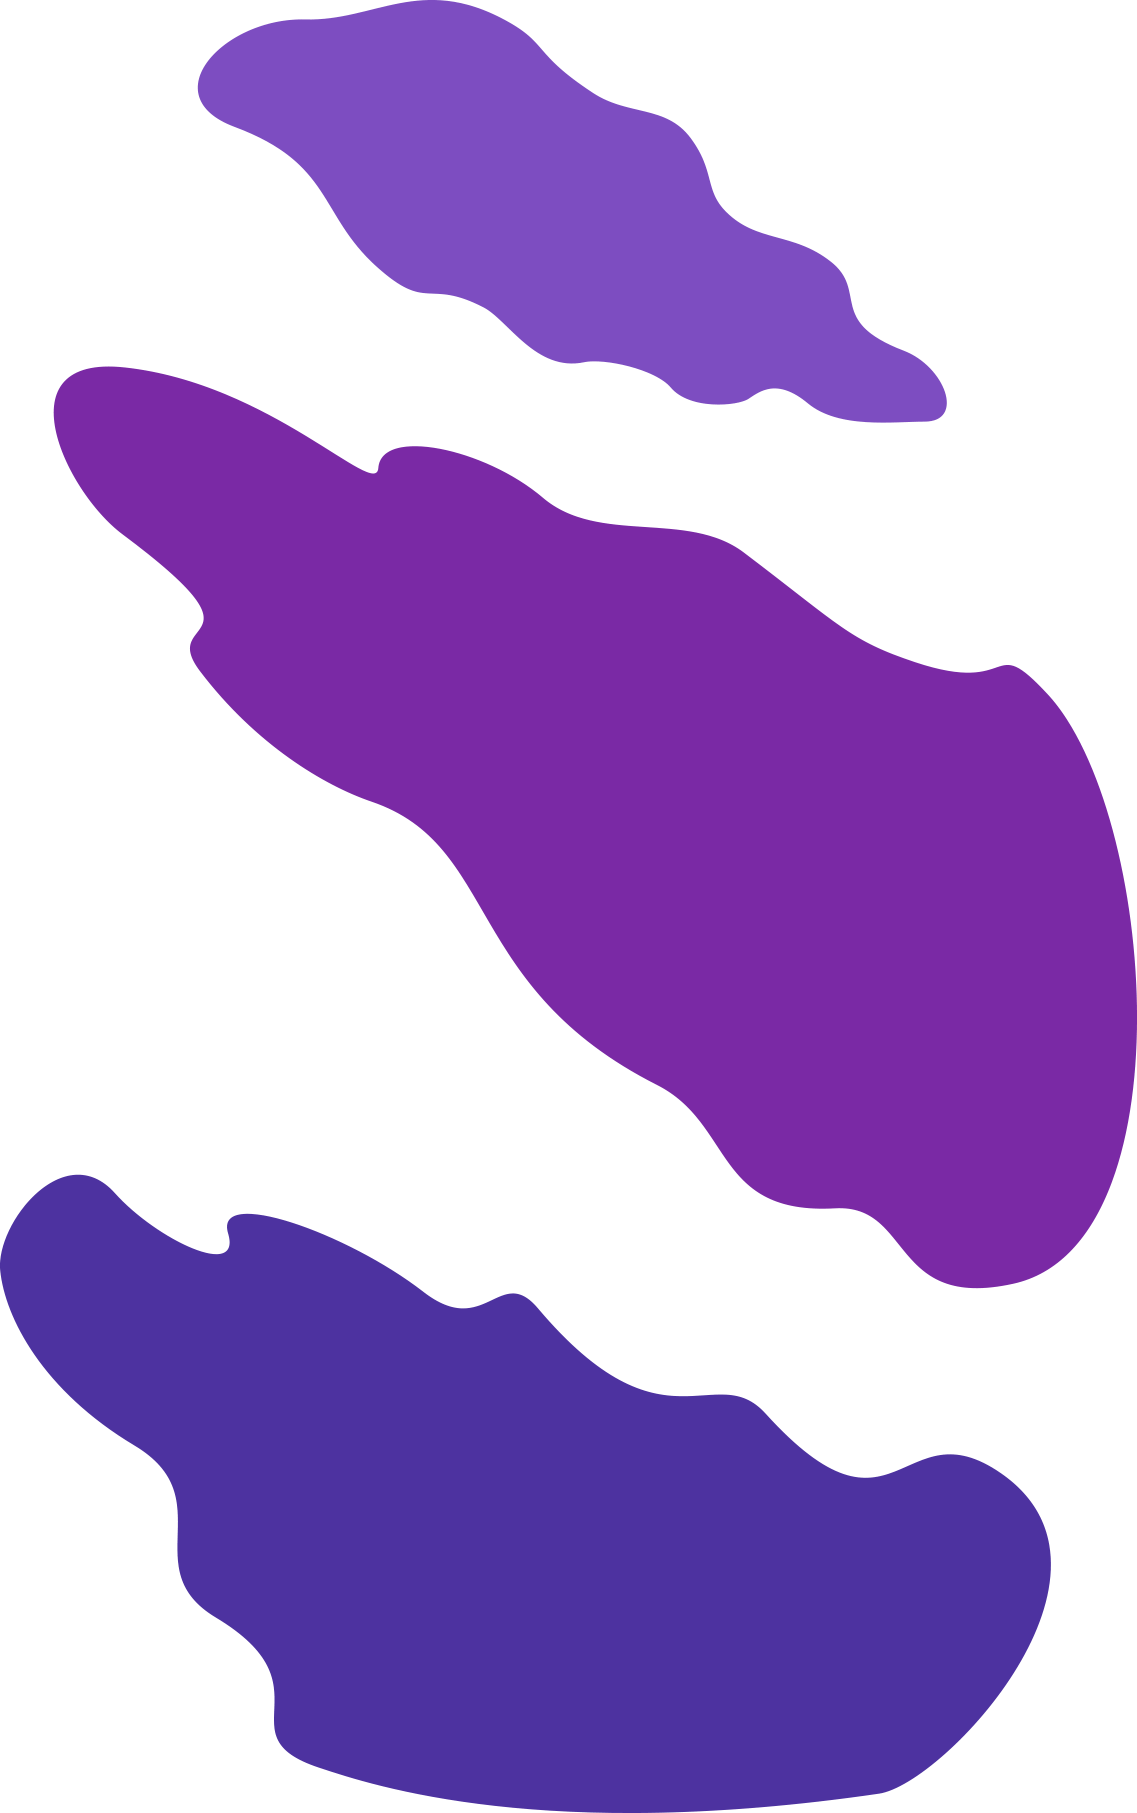
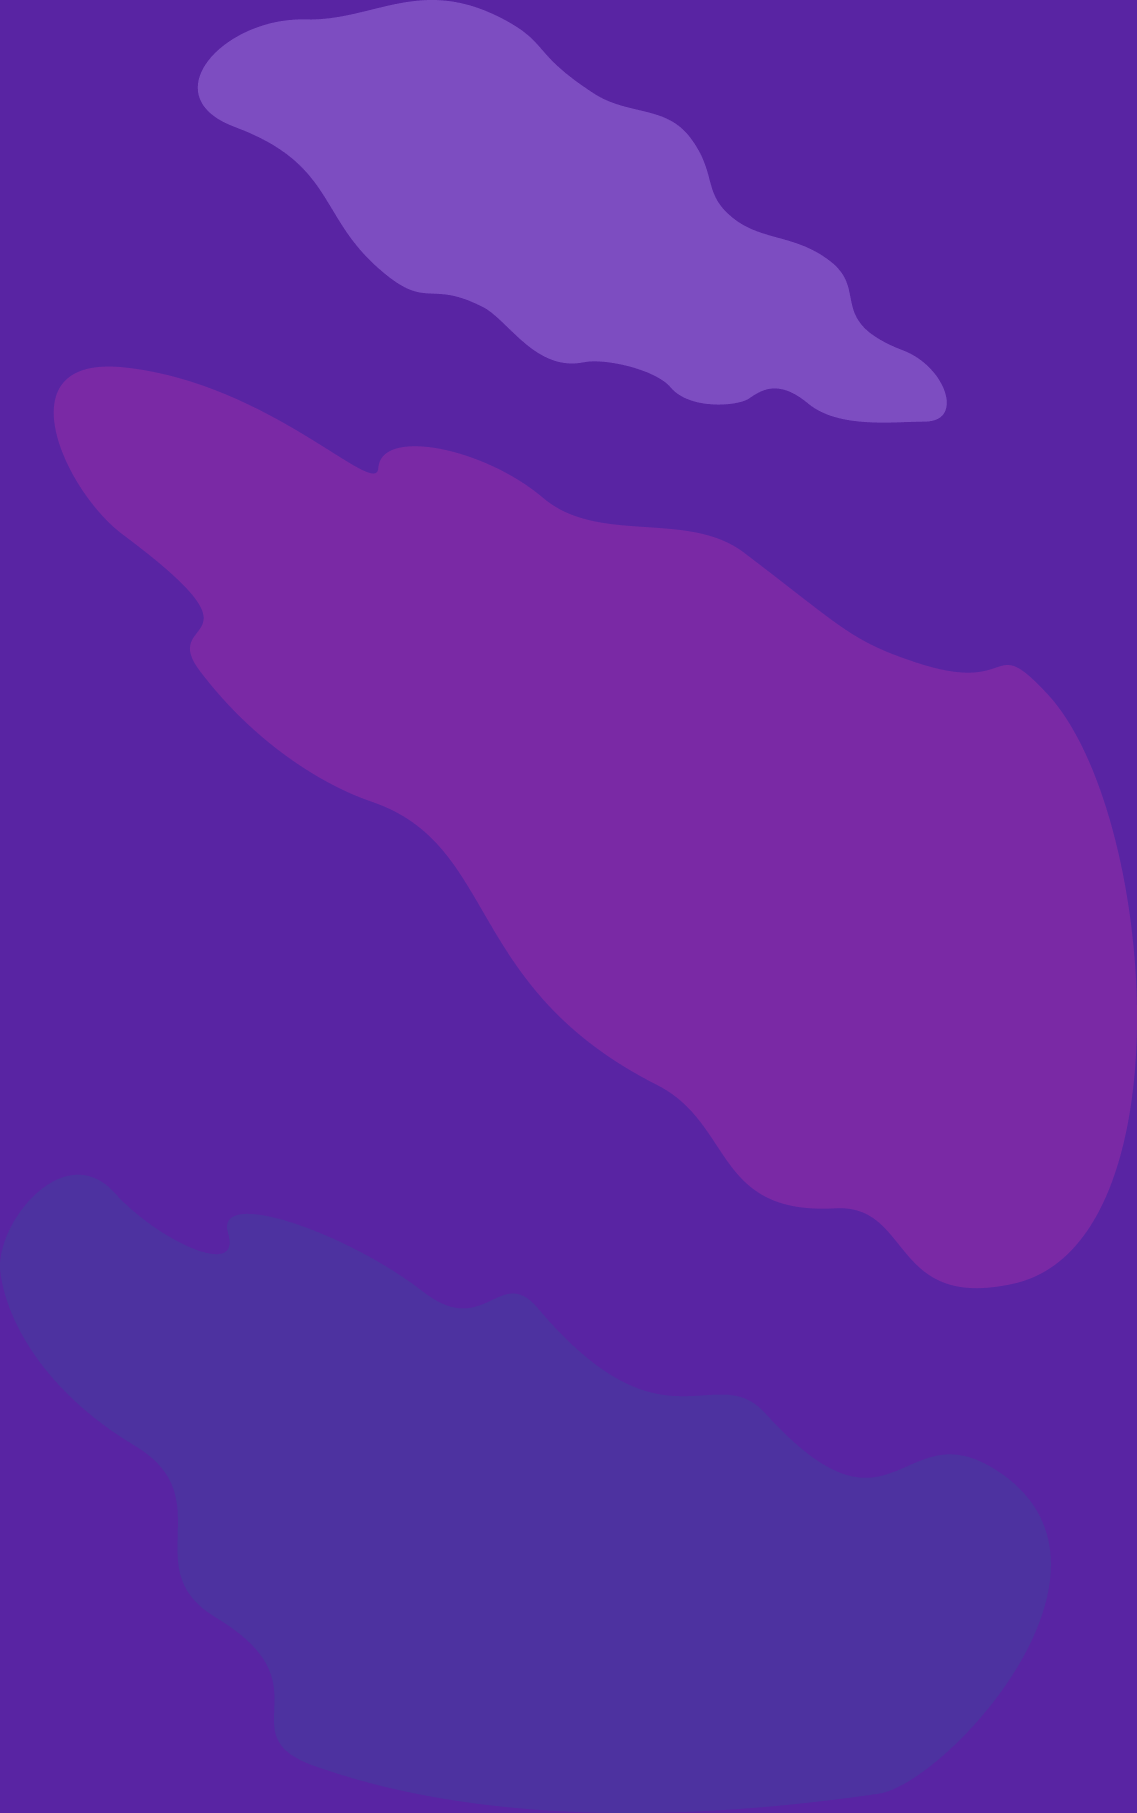
处理页面显示标题问题，以及设计师页背景色不对问题

diff --git a/Lagou/src/2019-birthday/m_index.html b/Lagou/src/2019-birthday/m_index.html
@@ -16,7 +16,7 @@
     <title>拉勾抓周</title>
     <link rel="Shortcut Icon" href="https://www.lgstatic.com/mds/static/common/static/favicon_a35b11d.ico">
     <link rel="stylesheet" href="css/swiper.min.css?v=$version$"/>
-    <link rel="stylesheet" href="css/m_index.css?v=2223$version$">
+    <link rel="stylesheet" href="css/m_index.css?v=2224$version$">
     <script type="text/javascript">
         function getQueryString(parm){
             var reg = new RegExp("(^|&)" + parm + "=([^&]*)(&|$)", "i");
@@ -356,7 +356,7 @@
             <div class="page3__canvas__pm" v-show="result === 'pm'">
                 <div class="pm__bg"></div>
                 <div class="pm__star"></div>
-                <div class="pm__title" :style="{top:getFitTop(240-128, 1/8)}"></div>
+                <!-- <div class="pm__title" :style="{top:getFitTop(240-128, 1/8)}"></div> -->
                 <div class="pm__leg" :style="{top:getFitTop(800-128, 2/8)}"></div>
                 <div class="pm__center" :style="{top:getFitTop(380-128, 2/8)}"></div>
                 <img class="page3__canvas__img" :src="url"
@@ -367,7 +367,7 @@
             <div class="page3__canvas__op" v-show="result === 'op'">
                 <div class="op__bg"></div>
                 <div class="op__star"></div>
-                <div class="op__title" :style="{top:getFitTop(240-128, 1/8)}"></div>
+                <!-- <div class="op__title" :style="{top:getFitTop(240-128, 1/8)}"></div> -->
                 <div class="op__leg" :style="{top:getFitTop(821-128, 2/8)}"></div>
                 <div class="op__center" :style="{top:getFitTop(404-128, 2/8)}"></div>
                 <img class="page3__canvas__img" :src="url"
@@ -378,7 +378,7 @@
             <div class="page3__canvas__tech" v-show="result === 'tech'">
                 <div class="tech__bg"></div>
                 <div class="tech__star"></div>
-                <div class="tech__title" :style="{top:getFitTop(240-128, 1/8)}"></div>
+                <!-- <div class="tech__title" :style="{top:getFitTop(240-128, 1/8)}"></div> -->
                 <div class="tech__leg" :style="{top:getFitTop(825-128, 2/8)}"></div>
                 <div class="tech__center" :style="{top:getFitTop(388-128, 2/8)}"></div>
                 <img class="page3__canvas__img" :src="url"
@@ -389,7 +389,7 @@
             <div class="page3__canvas__design" v-show="result === 'design'">
                 <div class="design__bg"></div>
                 <div class="design__star"></div>
-                <div class="design__title" :style="{top:getFitTop(240-128, 1/8)}"></div>
+                <!-- <div class="design__title" :style="{top:getFitTop(240-128, 1/8)}"></div> -->
                 <div class="design__leg" :style="{top:getFitTop(768-128, 2/8)}"></div>
                 <div class="design__center" :style="{top:getFitTop(380-128, 2/8)}"></div>
                 <img class="page3__canvas__img" :src="url"
@@ -400,7 +400,7 @@
             <div class="page3__canvas__market" v-show="result === 'market'">
                 <div class="market__bg"></div>
                 <div class="market__star" :style="{top:getFitTop(157-128, 1/2)}"></div>
-                <div class="market__title" :style="{top:getFitTop(240-128, 1/8)}"></div>
+                <!-- <div class="market__title" :style="{top:getFitTop(240-128, 1/8)}"></div> -->
                 <!-- <div class="market__leg"></div> -->
                 <div class="market__center" :style="{top:getFitTop(391-128, 7/16)}"></div>
                 <img class="page3__canvas__img" :src="url"
@@ -411,7 +411,7 @@
             <div class="page3__canvas__sell" v-show="result === 'sell'">
                 <div class="sell__bg"></div>
                 <div class="sell__star"></div>
-                <div class="sell__title" :style="{top:getFitTop(240-128, 1/8)}"></div>
+                <!-- <div class="sell__title" :style="{top:getFitTop(240-128, 1/8)}"></div> -->
                 <div class="sell__leg" :style="{top:getFitTop(808-128, 2/8)}"></div>
                 <div class="sell__center" :style="{top:getFitTop(384-128, 2/8)}"></div>
                 <img class="page3__canvas__img" :src="url"
@@ -422,13 +422,17 @@
             <div class="page3__canvas__func" v-show="result === 'func'">
                 <div class="func__bg"></div>
                 <div class="func__star" :style="{top:getFitTop(20-128, 1/2, 208)}"></div>
-                <div class="func__title" :style="{top:getFitTop(240-128, 1/8)}"></div>
+                <!-- <div class="func__title" :style="{top:getFitTop(240-128, 1/8)}"></div> -->
                 <div class="func__leg" :style="{top:getFitTop(799-128, 2/8)}"></div>
                 <div class="func__center" :style="{top:getFitTop(390-128, 2/8)}"></div>
                 <img class="page3__canvas__img" :src="url"
                     @touchstart="imgTouchstart"
                     @touchend="imgTouchend"
                     @click.stop.prevent="clickImageEvent" />
+            </div>
+            <div class="page3__canvas__title" :style="{top:getFitTop(240-128, 1/8)}">
+                未来的{{resultObj[result] ? resultObj[result].title : ''}}<br/>
+                是{{resultObj[result] ? resultObj[result].title : ''}}
             </div>
             <div class="icon cover__logo"></div>
             <div class="page3__canvas__hugleg" :style="{top:getFitTop(993-128, 1)}"></div>
@@ -450,7 +454,7 @@
 <script type="text/javascript" src="js/vue2.1.10.js"></script>
 <script type="text/javascript" src="js/swiper.min.js?v=$version$"></script>
 <script type="text/javascript" src="js/vue-awesome-swiper.js?v=$version$"></script>
-<script type="text/javascript" src="js/m_index.js?v=2223$version$"></script>
+<script type="text/javascript" src="js/m_index.js?v=2224$version$"></script>
 
 <script type="text/javascript" src="https://www.lgstatic.com/activity/js/jquery.1.10.1.min.js"></script>
 <script type="text/javascript" src="https://res.wx.qq.com/open/js/jweixin-1.0.0.js"></script>

diff --git a/Lagou/src/2019-birthday/js/m_index.js b/Lagou/src/2019-birthday/js/m_index.js
@@ -661,6 +661,15 @@ app = new Vue({
 
             'images/page3-canvas-logo.png'
         ],
+        resultObj: {
+            design: { bg: '#5924a3', index:4, title: '设计大咖' },
+            func: { bg: '#432e97', index:9, title: '职能大咖' },
+            market: { bg: '#f95085', index: 14, title: '市场大咖' },
+            op: { bg: '#f96277', index: 18, title: '运营大咖' },
+            pm: { bg: '#2a2aad', index: 23, title: '产品大咖' },
+            sell: { bg: '#ffb806', index: 28, title: '销售大咖' },
+            tech: { bg: '#2dad5b', index: 33, title: '技术大咖' } 
+        },
         canvas: null,
         ctx: null,
         drawStatus: false,
@@ -992,15 +1001,7 @@ app = new Vue({
         },
         drawContent:function(){
             var self = this
-            var obj = {
-                design: { bg: '#5924a3', index:4, title: '设计大咖' },
-                func: { bg: '#432e97', index:9, title: '职能大咖' },
-                market: { bg: '#f95085', index: 14, title: '市场大咖' },
-                op: { bg: '#f96277', index: 18, title: '运营大咖' },
-                pm: { bg: '#2a2aad', index: 23, title: '产品大咖' },
-                sell: { bg: '#ffb806', index: 28, title: '销售大咖' },
-                tech: { bg: '#2dad5b', index: 33, title: '技术大咖' } 
-            }
+            var obj = this.resultObj
             var index = obj[this.result].index
             this.ctx.fillStyle = obj[this.result].bg
             this.ctx.rect(0,0,this.canvas.width,this.canvas.height)

diff --git a/Lagou/src/2019-birthday/css/m_index.css b/Lagou/src/2019-birthday/css/m_index.css
@@ -1332,6 +1332,15 @@ html, body {
       left: 50%;
       top: 5.58933rem;
       margin: 0 0 0 -6.61333rem; }
+    .page3__canvas__title {
+      line-height: 1.856rem;
+      font-size: 1.28rem;
+      color: #fff;
+      font-weight: bold;
+      position: absolute;
+      left: 50%;
+      top: 2.38933rem;
+      margin: 0 0 0 -5.76rem; }
     .page3__canvas__img {
       width: 100%;
       height: 100%;

diff --git a/Lagou/src/2019-birthday/css/m_index.scss b/Lagou/src/2019-birthday/css/m_index.scss
@@ -1247,6 +1247,13 @@ html,body {
                 @include center(65,390-128);
             }
         }
+        &__title {
+            line-height:rem(87);
+            font-size:rem(60); // 72
+            color:#fff;
+            font-weight:bold;
+            @include center(105,240-128);
+        }
         &__img {
             width:100%;
             height:100%;

diff --git a/Lagou/src/2019-birthday/js/loading.js b/Lagou/src/2019-birthday/js/loading.js
@@ -93,6 +93,7 @@ var imgArray = [
 	loadingHost + "images/page3-canvas-tech-title.png",
 	loadingHost + "images/page3-canvas-tech.png",
 
+	"images/page3-canvas-logo.png",
 	"images/page3-canvas-bottom.png",
 	"images/page3-canvas-ercode.png",
 	"images/page3-canvas-hugleg.png",
